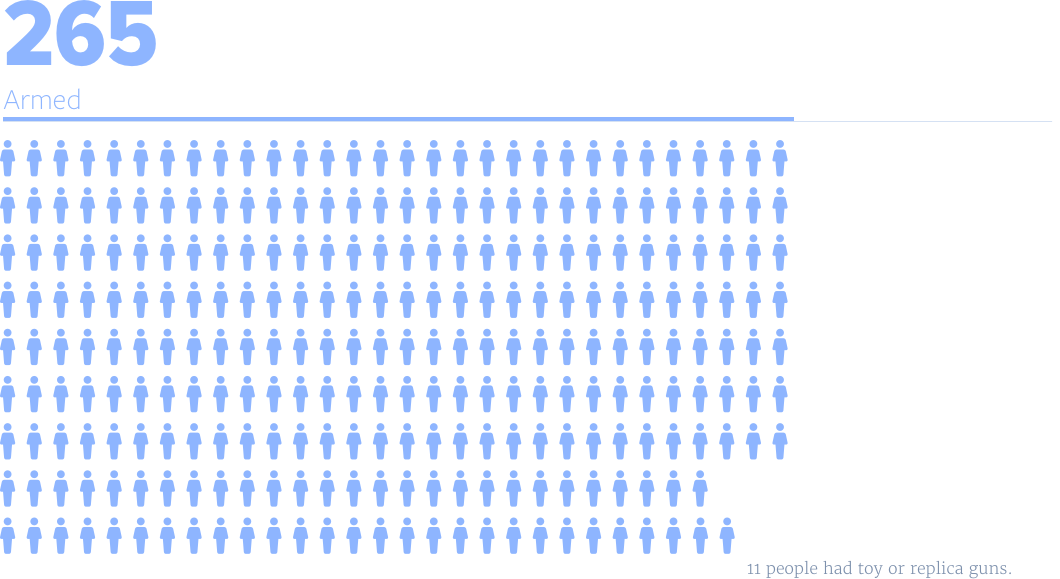
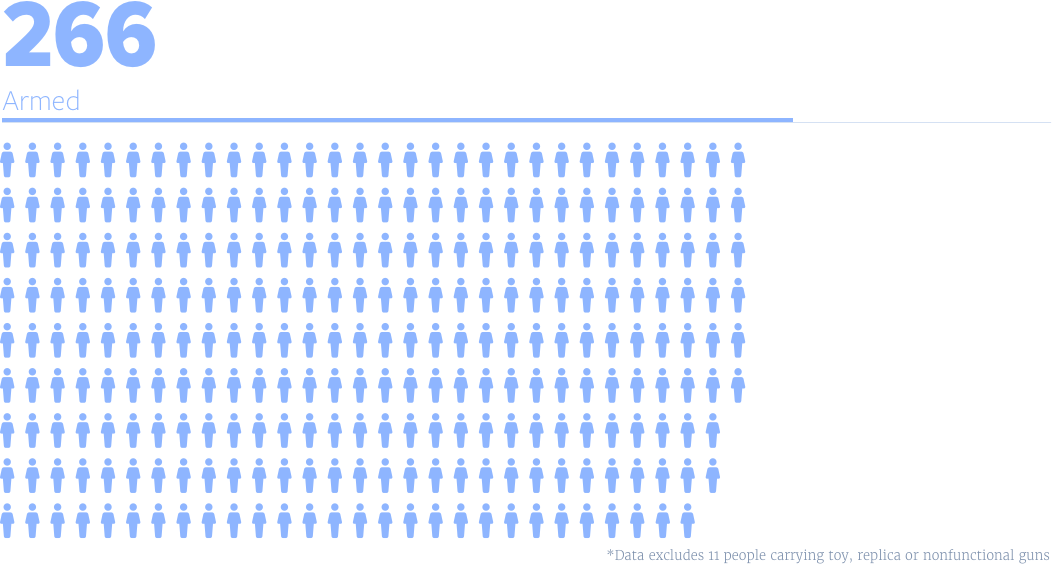
revisions to slide copy and assets

Changed region(s): [[0.0, 0.1507, 0.9962, 1.0], [0.0, 0.0, 0.1557, 0.1206], [0.0, 0.0, 0.0311, 0.0301]]

diff --git a/app/index.html b/app/index.html
@@ -121,7 +121,16 @@
     </nav>
   </header>
   <div class="cover">
-    <img src="images/bg_title-slide.jpg" class="slide__bg active" id="bg-0">
+    <img src="images/bg_title-slide.jpg" class="slide__bg" id="bg-0">
+    <img src="images/bg_orosco.jpg" class="slide__bg" id="bg-1">
+    <img src="images/bg_police-weapons.jpg" class="slide__bg" id="bg-2">
+    <img src="images/bg_police-training.jpg" class="slide__bg" id="bg-3">
+    <img src="images/bg_luckett-portrait.jpg" class="slide__bg" id="bg-4">
+    <img src="images/bg_luckett-mother.jpg" class="slide__bg" id="bg-5">
+    <img src="images/bg_hero-avendano.jpg" class="slide__bg" id="bg-6">
+    <img src="images/bg_hero-medal.jpg" class="slide__bg" id="bg-7">
+    <img src="images/bg_eng-portrait.jpg" class="slide__bg" id="bg-8">
+    <img src="images/bg_eng-mother.jpg" class="slide__bg" id="bg-9">
   </div>
   <aside class="slide__sharing">
     <span class="sharing__label">Share this</span>
@@ -138,7 +147,7 @@
         <img src="images/logo_kpcc-white.svg" alt="89.3 KPCC">
         <h1 class="title">Officer Involved</h1>
         <p class="subtitle">A KPCC investigation into police shootings in Los Angeles</p>
-        <p class="spacer--4"><a href="#credits" class="link link--subtle" data-toggle="modal">Credits</a></p>
+        <p class="spacer--4"><a href="#credits" class="link link--subtle" data-toggle="modal">Series Credits</a></p>
         <button class="button button--begin next-slide">
           <img src="images/ctrl_arrow-down.svg" class="icon icon--left" width="20" alt="Begin">
           <span>Begin</span>
@@ -163,36 +172,23 @@
 
     <section id="slide-1" class="section">
       <div class="bound bound--singlecol-wide">
-        <p class="copy copy--med">Between Jan. 1, 2010 and Dec. 31, 2014, the Justice System Integrity Division of the Los Angeles County District Attorney's Office responded to at least <span class="copy--emphasis">XXX</span> (on duty only) shootings involving law enforcement officers in Los Angeles County to determine whether they committed a crime.</p>
-      </div>
-    </section>
-
-    <section id="slide-2" class="section">
-      <div class="bound bound--singlecol-wide">
-        <p class="copy copy--small">Between Jan. 1, 2010 and Dec. 31, 2014, the Justice System Integrity Division of the Los Angeles County District Attorney's Office responded to at least <span class="copy--emphasis">XXX</span> (on duty only) shootings involving law enforcement officers in Los Angeles County to determine whether they committed a crime.</p>
+        <p class="copy copy--med">Between Jan. 1, 2010 and Dec. 31, 2014, the Los Angeles County district attorney was called to review at least <span class="copy--emphasis">388</span> shootings involving on-duty law enforcement officers.</p>
         <img src="images/img_total-incidents.png" class="slide__img" alt="359 Total Incidents reviewed by KPCC">
       </div>
     </section>
 
     <section id="slide-3" class="section">
-      <div class="bound bound--singlecol-wide align--center">
-        <p class="copy copy--med">So far, none have been prosecuted.</p>
+      <div class="bound bound--singlecol-med align--center">
+        <p class="copy copy--med">No officers have been prosecuted for any of those&nbsp;shootings.</p>
       </div>
     </section>
 
     <section id="slide-4" class="section">
       <div class="bound bound--singlecol-small">
-        <p class="copy copy--med">The last on-duty officer charged in L.A. County was in September 2000.</p>
+        <p class="copy copy--med">The last time an on-duty officer was charged for shooting a civilian in Los Angeles County was in September 2000.</p>
         <p class="copy copy--small">LAPD Officer Ronald Orosco shot an unarmed African American man during an altercation following a traffic stop.</p>
         <p class="copy copy--small">Prosecutors charged him with assault.</p>
-        <p class="copy copy--small">In a plea deal, he was convicted of one count of shooting at an occupied motor vehicle and sentenced to five years in state prison on Oct. 29, 2001.</p>
-      </div>
-    </section>
-
-    <section id="slide-5" class="section">
-      <div class="bound bound--singlecol-med">
-        <p class="copy copy--med">Law enforcement offices conduct their own internal investigations when an officer-involved shooting occurs. However, under state law, peace officer disciplinary records are confidential and cannot be disclosed to the public.</p>
-        <p class="copy copy--small">As a result, we don’t know how many officers have been disciplined in conjunction with the shootings KPCC reviewed.</p>
+        <p class="copy copy--small">In a plea deal, he was convicted of one count of shooting at an occupied motor vehicle and sentenced to five years in state prison.</p>
       </div>
     </section>
 
@@ -206,7 +202,7 @@
 
     <section id="slide-7" class="section">
       <div class="bound bound--singlecol-med align--center">
-        <p class="copy copy--med">Of the 265 incidents where the civilian was armed, <span class="copy--emphasis">two-thirds</span> of them had a firearm.</p>
+        <p class="copy copy--med">Of those 266 people who were armed, <span class="copy--emphasis">two-thirds</span> had a firearm and 57 shot at police.</p>
         <hr class="divider--horizontal">
         <img src="images/img_civilian-weapons.png" class="slide__img" alt="Civilian Weapons Possession">
       </div>
@@ -221,24 +217,24 @@
 
     <section id="slide-9" class="section">
       <div class="bound bound--singlecol-med">
-        <p class="copy copy--med">Law Enforcement officers’ disciplinary records are secret under state law, so it’s impossible to know how often officers and deputies in Los Angeles are disciplined or fired for shooting – even when people are unarmed.</p>
-        <p class="copy copy--med">KPCC’s review of state employment records found more than 90 percent of officers who shot since 2010 are still working in law enforcement in California.</p>
+        <p class="copy copy--med">Law enforcement officers’ disciplinary records are secret under state law, so it’s impossible to know how often officers and deputies in Los Angeles are disciplined or fired for shooting even when people are unarmed.</p>
       </div>
     </section>
 
     <section id="slide-11" class="section">
       <div class="bound bound--singlecol-wide">
         <h3 class="heading heading--section">Under What Circumstances Do Police In Los Angeles Shoot Civilians?</h3>
-        <p class="copy copy--med">In <span class="copy--emphasis">180 of 359</span> incidents, KPCC’s analysis found officers shot someone whose <strong>hands weren’t visible</strong> or dropped to their pants or waist. Of those 63 were unarmed.</p>
-        <p class="copy copy--med">In <span class="copy--emphasis">120 of 280</span> incidents where law enforcement officers said the person they shot was ignoring their commands the DA’s report said the person showed <strong>signs of mental illness or intoxication.</strong></p>
-        <p class="copy copy--med">In <span class="copy--emphasis">146 of 359</span> incidents, KPCC’s analysis found officers shot suspects during or after they <strong>tried to drive, bike or run away</strong>. In 14 cases, officers said they shot because the person was trying to hit them with their car.</p>
+        <p class="copy copy--med">KPCC’s analysis found officers shot 149 people who dropped their hands out of sight or “reached for” a waistband or their pants. Of those, <span class="copy--emphasis">48 were unarmed</span>.</p>
+        <p class="copy copy--med">Of the 280 people shot because they were said to be ignoring officer commands, <span class="copy--emphasis">120 people</span> showed signs of mental illness or impairment from drugs or alcohol, KPCC’s analysis found.</p>
+        <p class="copy copy--med">Officers shot <span class="copy--emphasis">155 people</span> in the act of fleeing, or after a pursuit. </p>
+        <p class="copy copy--med">Officers said they shot <span class="copy--emphasis">19 people</span> who were unarmed because they feared the person was trying to hit them with a vehicle.</p>
       </div>
     </section>
 
     <section id="slide-10" class="section">
       <div class="bound bound--singlecol-wide">
         <p class="copy copy--med">Police trainees are drilled on how to read dangerous situations in “force simulator” training.</p>
-        <p class="copy copy--med">But most law enforcement officers only receive two hours of training on how to deal with the mentally ill, according to District Attorney Jackie Lacey. </p>
+        <p class="copy copy--med">But most law enforcement officers only receive between six and 10 hours of training on how to deal with the mentally ill.</p>
       </div>
     </section>
 
@@ -246,9 +242,8 @@
       <div class="bound bound--singlecol-full align--left">
         <div class="bound__push-right">
           <h3 class="heading heading--section">Unarmed and Dangerous?</h3>
-          <p class="copy copy--med">On June 16, 2010, a Los Angeles Sheriff’s Deputy investigating a 911 call of “shots fired” killed Dexter Luckett.</p>
-          <p class="copy copy--med">Instead of putting his hands on the patrol car, Luckett set his beer on the hood and allegedly dropped his left hand toward his waistband. 
-          <p class="copy copy--med">He was unarmed.</p>
+          <p class="copy copy--med">On June 16, 2010, a Los Angeles Sheriff’s Deputy investigating a 911 call of “shots fired” shot and killed Dexter Luckett.</p>
+          <p class="copy copy--med">Instead of putting his hands on the patrol car, Luckett set his beer on the hood and allegedly dropped his left hand toward his waistband.</p>
         </div>
       </div>
     </section>
@@ -256,6 +251,7 @@
     <section id="slide-13" class="section">
       <div class="bound bound--singlecol-full align--left">
         <div class="bound__push-left">
+          <p class="copy copy--med">He was unarmed.</p>
           <p class="copy copy--med">“I mean, I would accept it if they said it was accidental,” said Luckett's mother Janice Johnson. “But then they twist it and say his hand dropped, you know, like he was reaching for something.”</p>
           <p><a href="#" class="link link--document">Read the full story</a></p>
         </div>
@@ -264,7 +260,7 @@
 
     <section id="slide-14" class="section">
       <div class="bound bound--singlecol-wide">
-        <p class="copy copy--med">Over the past five years, a KPCC review of Medical Examiner records found, law enforcement officers in Los Angeles County fatally shot black people at nearly <span class="copy--emphasis">triple the rate</span> of white and Hispanic people.</p>
+        <p class="copy copy--med">Over the past five years, a KPCC review of medical examiner records found law enforcement officers in Los Angeles County fatally shot black people at nearly <span class="copy--emphasis">triple the rate</span> of white and Hispanic people.</p>
         <img src="images/img_ois-by-race.png" class="slide__img" alt="Incidents by Race">
       </div>
     </section>
@@ -273,23 +269,19 @@
       <div class="bound bound--singlecol-wide align--right">
         <hr class="divider--horizontal">
         <h3 class="heading heading--section">To Protect and Serve</h3>
-        <p class="copy copy--med">In 17% of 359 officer-involved shootings reviewed by KPCC, prosecutors found officers shot a civilian in order to protect other innocent people who may have been in danger.</p>
+        <p class="copy copy--med">In 11 percent of 359 officer-involved shootings reviewed by KPCC, prosecutors found officers shot a civilian in order to protect other innocent people who may have been in danger.</p>
       </div>
     </section>
 
     <section id="slide-16" class="section">
-      <div class="bound bound--singlecol-wide align--center">
-        <div class="spacer--14">&nbsp;</div>
-        <p class="copy copy--med">In December 2012, LAPD Officer Eric Andrew Avendano faced a man holding a knife to his girlfriend’s bloody neck in a North Hollywood alley.</p>
-        <p class="copy copy--med">He and his partner yelled for Jeovany Mendoza to drop the knife. He refused.</p>
-        <p class="copy copy--med">Avendano shot.</p>
-      </div>
-    </section>
-
-    <section id="slide-17" class="section">
-      <div class="bound bound--singlecol-wide align--center">
-        <p class="copy copy--med">“When I took the shot, the victim let out a scream that I’ve never heard before and they both fell to the ground,” Avendano recalled.</p>
-        <p class="copy copy--med">“I didn’t know if I hit the suspect or the victim.”</p>
+      <div class="bound bound--singlecol-full align--left">
+        <div class="bound__push-right">
+          <p class="copy copy--small">In December 2012, LAPD Officer Eric Andrew Avendano faced a man holding a knife to his girlfriend’s bloody neck in an alley in Van Nuys.</p>
+          <p class="copy copy--small">Avendano and his partner yelled for Jeovany Mendoza to drop the knife. He refused and threatened to kill her.</p>
+          <p class="copy copy--small">Avendano stepped out from behind his patrol car, took aim and fired.</p>
+          <p class="copy copy--small">“When I took the shot, the victim let out a scream that I’ve never heard before and they both fell to the ground,” Avendano recalled.</p>
+          <p class="copy copy--small">“I didn’t know if I hit the suspect or the victim.”</p>
+        </div>
       </div>
     </section>
 
@@ -298,7 +290,7 @@
         <div class="bound__push-left">
           <div class="spacer--14">&nbsp;</div>
           <p class="copy copy--med">He hit his target: The bullet had travelled through Mendoza’s eye and pierced his brain. He died on the spot.</p>
-          <p class="copy copy--med">Last month, Avendano stepped onto a stage where Chief Charlie Beck hung the LAPD’s medal of valor around his neck.</p>
+          <p class="copy copy--med">Last month, Avendano stepped onto a stage where Chief Charlie Beck hung the LAPD’s medal of valor around his&nbsp;neck.</p>
         </div>
       </div>
     </section>
@@ -307,8 +299,8 @@
       <div class="bound bound--singlecol-wide align--right">
         <hr class="divider--horizontal">
         <h3 class="heading heading--section">People in Crisis</h3>
-        <p class="copy copy--med">KPCC’s analysis found about 11% of people shot by law enforcement officers between 2010 and 2014 showed signs of mental illness, according to prosecutors.</p>
-        <p class="copy copy--med">For 16 of them, prosecutors said police were summoned because the person was suicidal or in danger of self-harm – and ended up shot by officers.</p>
+        <p class="copy copy--med">KPCC’s analysis found about 11 percent of people shot by law enforcement officers between 2010 and 2014 showed signs of mental illness, according to prosecutors.</p>
+        <p class="copy copy--med">For 16 of them, prosecutors said police were summoned because the person was suicidal or in danger of self-harm and ended up shot by officers.</p>
       </div>
     </section>
 
@@ -317,8 +309,8 @@
         <div class="bound__push-left">
           <div class="spacer--14">&nbsp;</div>
           <p class="copy copy--med">On January 4, 2012, four L.A. County Sherriff’s Deputies responded to a call from a mental health and counseling facility in Rosemead.</p>
-          <p class="copy copy--med">Jazmyne Eng, a 40 year-old patient, was inside the lobby, refusing to leave and holding a small, rounded hammer.</p>
-          <p class="copy copy--med">A schizophrenic, Eng was off her medication – and paranoid.</p>
+          <p class="copy copy--med">Jazmyne Eng, a 40 year-old patient, was inside the lobby, refusing to leave and holding a small, rounded&nbsp;hammer.</p>
+          <p class="copy copy--med">A schizophrenic, Eng was off her medication and paranoid.</p>
         </div>
       </div>
     </section>
@@ -326,18 +318,18 @@
     <section id="slide-21" class="section">
       <div class="bound bound--singlecol-full align--left">
         <div class="bound__push-left">
-          <p class="copy copy--med">Deputies were already armed with a Taser and gun when they approached Eng and told her to give up the hammer.</p>
+          <p class="copy copy--med">Deputies were already armed with a Taser and gun when they approached Eng and told her to give up the&nbsp;hammer.</p>
           <p class="copy copy--med">Instead, they said she “charged” towards them, leaving them no choice but to shoot.</p>
           <p class="copy copy--med">“She was killed for being scared,” her sister Nancy Eng said.</p>
-          <p class="copy copy--med">The county paid Eng’s family $1.85 million to settle a wrongful death claim.</p>
+          <p class="copy copy--med">The county paid Eng’s family $1.85 million to settle a wrongful death&nbsp;claim.</p>
         </div>
       </div>
     </section>
 
     <section id="slide-22" class="section">
-      <div class="bound bound--singlecol-small align--center">
+      <div class="bound bound--singlecol-med align--center">
         <h3 class="heading heading--section">Explore the Data</h3>
-        <p class="copy copy--med">KPCC analyzed summaries of officer-involved shootings by the Los Angeles County District Attorney from 2010-2014. Explore the data by applying different filters.</p>
+        <p class="copy copy--med">KPCC analyzed summaries of officer-involved shootings by the Los Angeles County District Attorney from 2010-2014. Explore the data by applying different&nbsp;filters.</p>
         <p class="copy copy--med">Explore the data KPCC gathered for this series, or read the first in-depth feature.</p>
         <p>
           <a class="button" href="#">Explore the Data</a>

diff --git a/app/scripts/main.js b/app/scripts/main.js
@@ -9,25 +9,118 @@ $(document).ready(function() {
       paddingTop: '70px',
       paddingBottom: '70px',
       animateAnchor: false,
+      recordHistory: true,
       anchors:['0', '1', '2', '3', '4', '5', '6', '7', '8', '9', '10', '11', '12', '13', '14', '15', '16', '17', '18', '19', '20', '21', '22'],
 
-      onLeave: function(index, newIndex, direction){
-        if (newIndex === 2 && direction === 'down'){
-          $('#bg-0').addClass('zoom');
+      afterLoad: function(anchorLink, index){
+        if(index === 1 || index === 2 || index === 20) {
+          $('#bg-0').addClass('active');
+        }
+        else {
+          $('#bg-0').removeClass('active');
           $('.header__branding').removeClass('hidden');
           $('.pager--slides').removeClass('hidden');
         }
-        else if (newIndex === 3 && direction === 'down'){
-          $('#bg-0').removeClass('active');
-        }
-        else if(newIndex === 2 && direction === 'up'){
-          $('#bg-0').addClass('active');
-        }
-        else if(newIndex === 1 && direction === 'up'){
+      },
+      onLeave: function(index, newIndex, direction){
+        if (newIndex === 1 && direction === 'up'){
           $('#bg-0').removeClass('zoom');
           $('.header__branding').addClass('hidden');
           $('.pager--slides').addClass('hidden');
         }
+        else if (newIndex === 2 && direction === 'down'){
+          $('#bg-0').addClass('zoom');
+          $('.header__branding').removeClass('hidden');
+          $('.pager--slides').removeClass('hidden');
+        }
+        else if (newIndex === 2 && direction === 'up'){
+          $('#bg-0').addClass('active');
+        }
+        else if (newIndex === 3 && direction === 'down'){
+          $('#bg-0').removeClass('active');
+        }
+        else if (newIndex === 4){
+          $('#bg-1').addClass('active');
+        }
+        else if ((newIndex === 5 && direction === 'down') || (newIndex === 3 && direction === 'up')) {
+          $('#bg-1').removeClass('active');
+        }
+        else if (newIndex === 7 ) {
+          $('#bg-2').addClass('active');
+        }
+        else if ((newIndex === 8 && direction === 'down') || (newIndex === 6 && direction === 'up')) {
+          $('#bg-2').removeClass('active');
+        }
+        else if (newIndex === 9 && direction === 'up'){
+          $('#bg-3').removeClass('active');
+        }
+        else if (newIndex === 10 && direction === 'down'){
+          $('#bg-3').addClass('active');
+        }
+        else if (newIndex === 10 && direction === 'up'){
+          $('#bg-3').addClass('active');
+          $('#bg-4').removeClass('active');
+        }
+        else if (newIndex === 11 && direction === 'down'){
+          $('#bg-3').removeClass('active');
+          $('#bg-4').addClass('active');
+        }
+        else if (newIndex === 11 && direction === 'up'){
+          $('#bg-4').addClass('active');
+          $('#bg-5').removeClass('active');
+        }
+        else if (newIndex === 12){
+          $('#bg-4').removeClass('active');
+          $('#bg-5').addClass('active');
+        }
+        else if (newIndex === 13 && direction === 'down'){
+          $('#bg-5').removeClass('active');
+        }
+        else if (newIndex === 14 && direction === 'up') {
+          $('#bg-6').removeClass('active');
+        }
+        else if (newIndex === 15 && direction === 'down'){
+          $('#bg-6').addClass('active');
+        }
+        else if (newIndex === 15 && direction === 'up'){
+          $('#bg-6').addClass('active');
+          $('#bg-7').removeClass('active');
+        }
+        else if (newIndex === 16 && direction === 'down') {
+          $('#bg-6').removeClass('active');
+          $('#bg-7').addClass('active');
+        }
+        else if (newIndex === 16 && direction === 'up') {
+          $('#bg-7').addClass('active');
+        }
+        else if (newIndex === 17 && direction === 'down'){
+          $('#bg-7').removeClass('active');
+        }
+        else if (newIndex === 17 && direction === 'up'){
+          $('#bg-8').removeClass('active');
+        }
+        else if (newIndex === 18 && direction === 'down'){
+          $('#bg-8').addClass('active');
+        }
+        else if (newIndex === 18 && direction === 'up'){
+          $('#bg-8').addClass('active');
+          $('#bg-9').removeClass('active');
+        }
+        else if (newIndex === 19 && direction === 'down'){
+          $('#bg-8').removeClass('active');
+          $('#bg-9').addClass('active');
+        }
+        else if (newIndex === 19 && direction === 'up'){
+          $('#bg-9').addClass('active');
+          $('#bg-0').removeClass('active');
+          $('.next-slide').show();
+        }
+        else if (newIndex === 20 && direction === 'down'){
+          $('#bg-9').removeClass('active');
+          $('#bg-0').addClass('active');
+          $('.next-slide').hide();
+        }
+        
       }
     });
 

diff --git a/app/styles/_typography.scss b/app/styles/_typography.scss
@@ -1,5 +1,9 @@
 // Type Styles for the Sequential Narrative
 .typography--sequential {
+  @media (max-width: em(1000)) and (max-height: em(1000)) {
+    font-size: 14px;
+  }
+
   .title {
     font-family: $font-sans;
     font-size: em(68);
